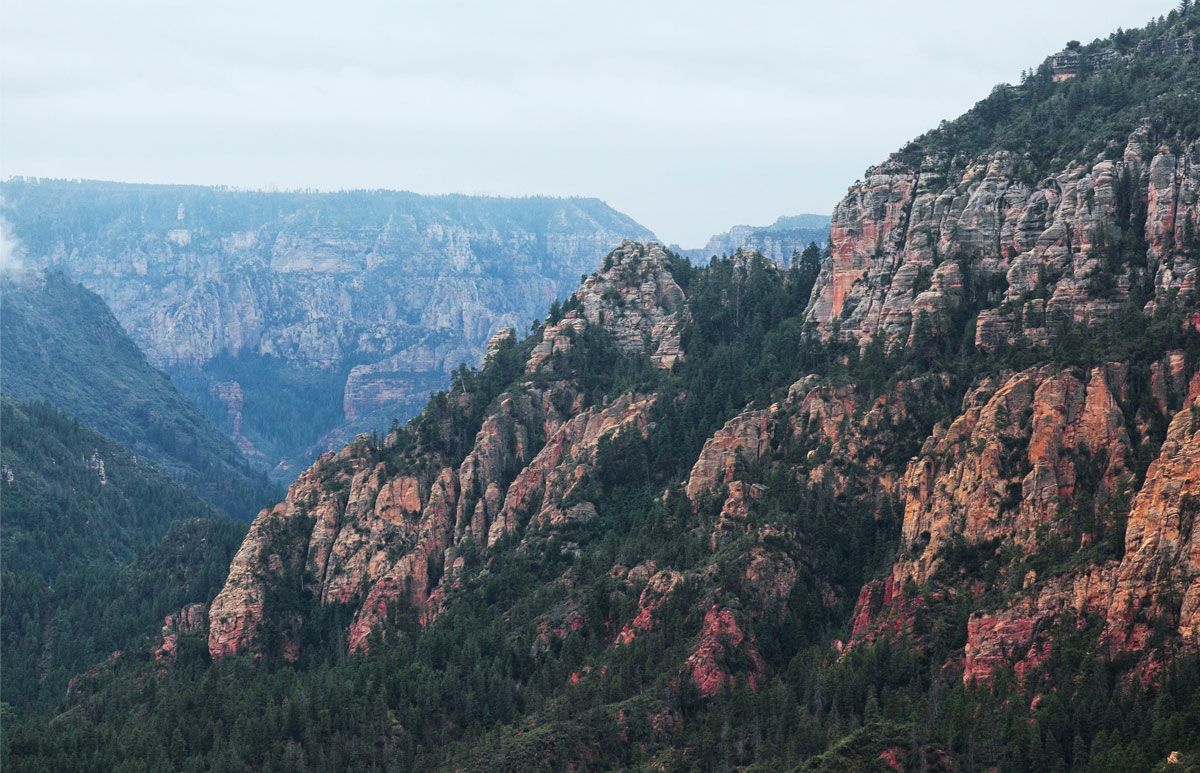
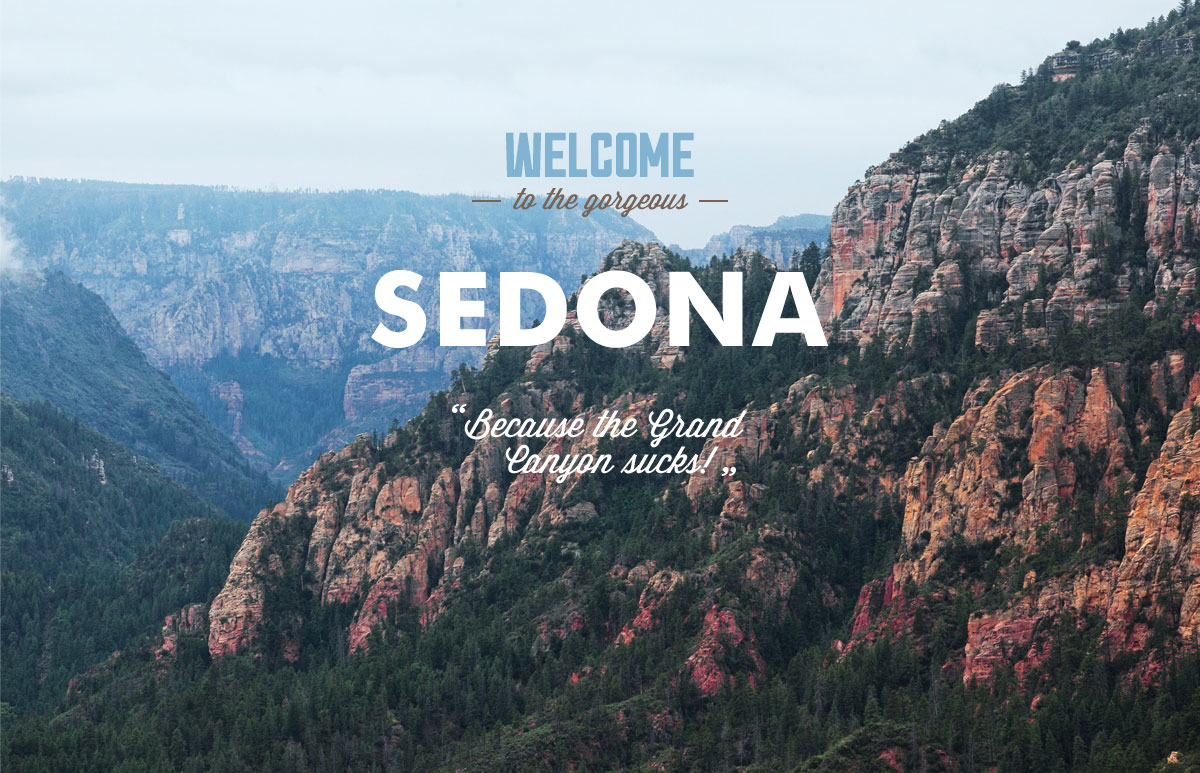
Стиллизована шапка

Changed region(s): [[0.3083, 0.3415, 0.7092, 0.4657], [0.4008, 0.1552, 0.5858, 0.2794], [0.37, 0.5278, 0.6167, 0.621]]

diff --git a/index.html b/index.html
@@ -10,38 +10,33 @@
 <div class="page__wrapper">
     <header class="main-header">
         <nav class="main-nav main-header__nav">
+            <a class="main-nav__logo" href="/">
+                <img class="main-menu__site-logo" src="img/png/logo.png" width="138" height="70" alt="На главную">
+            </a>
             <ul class="main-menu main-nav__menu">
-                <li class="main-menu__item">
-                    <a class="main-menu__link">Информация</a>
+                <li class="main-menu__item main-menu__item--info">
+                    <a class="main-menu__link" href="#">Информация</a>
                 </li>
-                <li class="main-menu__item">
-                    <a class="main-menu__link">Фото и видео</a>
+                <li class="main-menu__item main-menu__item--media">
+                    <a class="main-menu__link" href="#">Фото и видео</a>
                 </li>
-                <li class="main-menu__item">
-                    <a class="main-menu__link">
-                        <img class="main-menu__site-logo" src="img/png/logo.png" width="138" height="70" alt="На главную">
-                    </a>
+                <li class="main-menu__item main-menu__item--map">
+                    <a class="main-menu__link" href="#">Карта штата</a>
                 </li>
-                <li class="main-menu__item">
-                    <a class="main-menu__link">Карта штата</a>
-                </li>
-                <li class="main-menu__item">
-                    <a class="main-menu__link">Гостиницы</a>
+                <li class="main-menu__item main-menu__item--hotel">
+                    <a class="main-menu__link" href="#">Гостиницы</a>
                 </li>
             </ul>
         </nav>
         <section class="welcome-to-sedona">
             <h2 class="visually-hidden">Добро пожаловать в Седону</h2>
-            <p class="welcome-to-sedona__header"></p>
-            <p class="welcome-to-sedona__content"></p>
-            <p class="welcome-to-sedona__footer"></p>
-            <p class="welcome-to-sedona__footer-decor"></p>
+            <footer class="welcome-footer welcome-to-sedona__footer">
+                <h1 class="welcome-footer__title">Седона - небольшой городок в Аризоне, заслуживащий большего!</h1>
+                <p class="welcome-footer__reasons">Рассмотрим 5 причин, по которым Седона круче, чем Гранд Каньон!</p>
+            </footer>
         </section>
     </header>
-    <section class="sedona-info">
-        <h1 class="sedona-info__title">Седона - небольшой городок в Аризоне, заслуживащий большего!</h1>
-        <p class="sedona-info__reasons">Рассмотрим 5 причин, по которым Седона круче, чем Гранд Каньон!</p>
-    </section>
+
     <main class="content">
         <section class="reasons">
             <h2 class="visually-hidden">Причины, по которым стоит посетить Сеодону</h2>

diff --git a/styles.css b/styles.css
@@ -1,4 +1,8 @@
+/*Глобальные стили*/
 body {
+    margin: 0;
+    padding: 0;
+
     font-family: 'PT Sans', sans-serif;
     font-size: 14px;
     font-weight: 400;
@@ -25,4 +29,126 @@ input[type="radio"].visually-hidden {
 
 .outline {
 	outline: 1px solid red;
+}
+
+.page {
+    background-color: #f2f2f2;
+}
+
+.page__wrapper {
+    width: 1200px;
+    margin: 0 auto;
+
+    background-color: #fff;
+
+    -webkit-box-shadow: 0 0 15px rgba(0, 0, 0, .2);
+    -moz-box-shadow: 0 0 15px rgba(0, 0, 0, .2);
+    box-shadow: 0 0 15px rgba(0, 0, 0, .2);
+}
+
+/********************************************HEADER***************************************/
+
+.main-header__nav {
+    position: relative;
+}
+
+.main-nav__logo {
+    position: absolute;
+    left: 50%;
+
+    -webkit-transform: translateX(-50%);
+    -moz-transform: translateX(-50%);
+    -ms-transform: translateX(-50%);
+    -o-transform: translateX(-50%);
+    transform: translateX(-50%);
+}
+.main-nav__menu {
+    margin: 0 auto;
+    padding: 15px 0;
+    width: 1056px;
+
+    display: flex;
+    flex-wrap: wrap;
+}
+
+.main-menu {
+    list-style: none;
+}
+
+.main-menu__link {
+    font-weight: 700;
+    text-transform: uppercase;
+    text-decoration: none;
+    color: #000;
+}
+
+.main-menu__link:hover {
+    color: #81b3d2;
+}
+
+.main-menu__link:active {
+    color: #cacaca;
+}
+
+.main-menu__item--media {
+    margin-left: 148px;
+}
+
+.main-menu__item--map {
+    margin-left: 388px;
+}
+
+.main-menu__item--hotel {
+    margin-left: 162px;
+}
+
+.welcome-to-sedona {
+    height: 773px;
+    background-image: url("img/png/background photo.jpg");
+    background-repeat: no-repeat;
+    background-position: 0 0;
+
+    display: flex;
+    align-items: flex-end;
+}
+
+.welcome-footer {
+    flex-basis: 100%;
+    padding-top: 59px;
+    padding-bottom: 51px;
+
+    background-color: #fff;
+    position: relative;
+}
+
+.welcome-footer__title {
+    margin: 0 auto;
+    margin-bottom: 24px;
+    width: 510px;
+
+    font-size: 21px;
+    line-height: 26px;
+    font-weight: 700;
+
+    text-transform: uppercase;
+    text-align: center;
+}
+
+.welcome-footer__reasons {
+    margin: 0 auto;
+    width: 510px;
+
+    text-transform: uppercase;
+    text-align: center;
+}
+
+.welcome-footer::before {
+    content: '';
+    width: 100%;
+    height: 57px;
+    position: absolute;
+    left: 0;
+    top: -57px;
+
+    background-image: url("img/png/bottom decor.png");
 }
